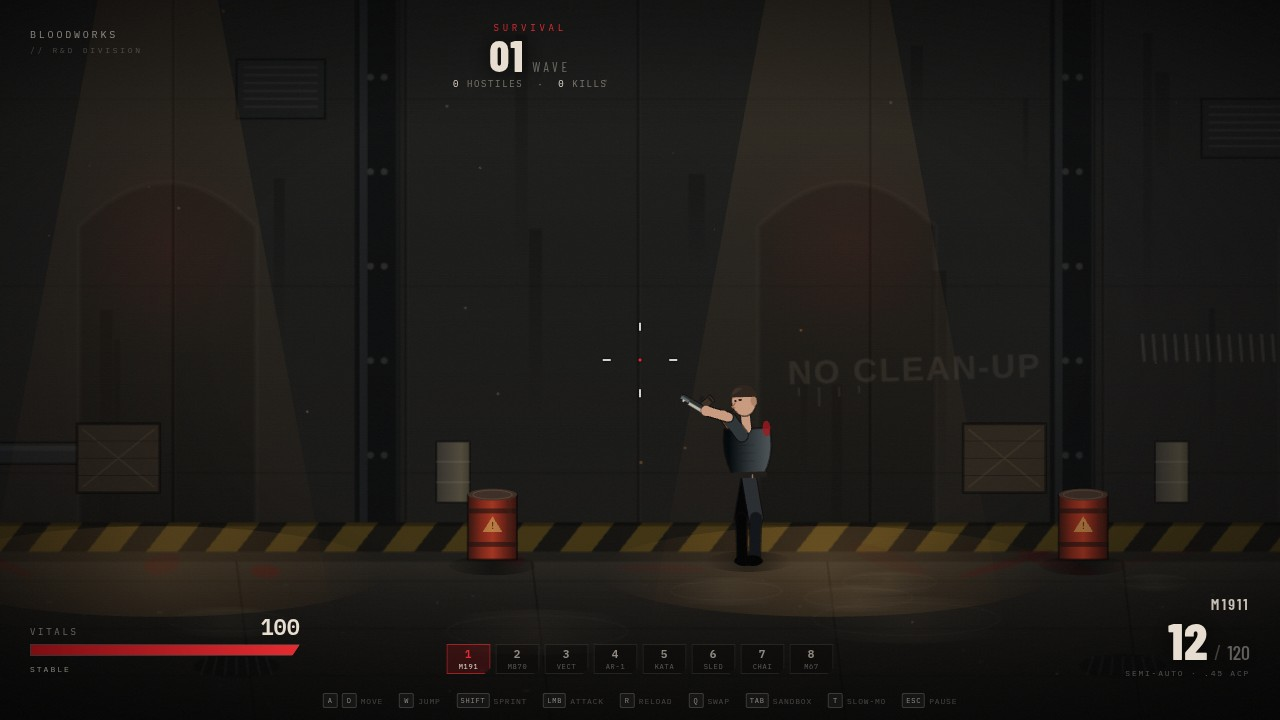
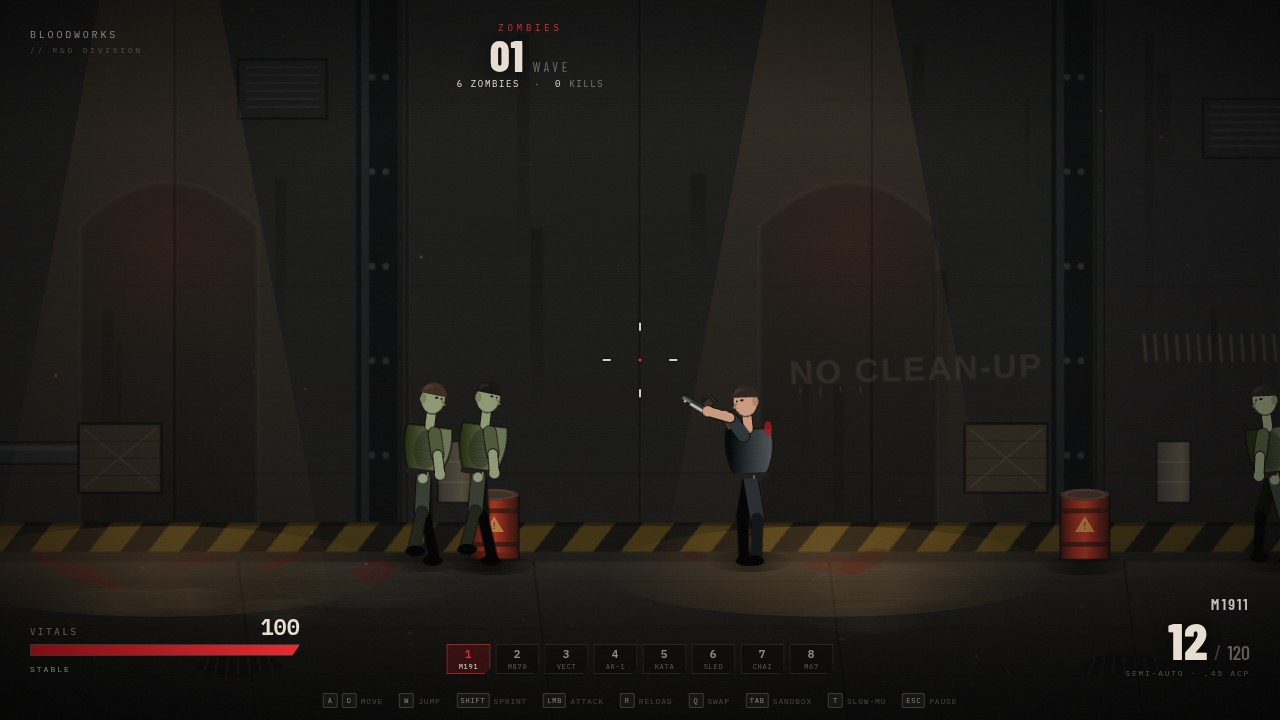
Publish static build for issue #8
Run: 42526923761
Attempt: 1
Generation: 5
Source: db1a5d6055c4b73f54363c94857f348db72bac48

diff --git a/js/game.js b/js/game.js
@@ -9,6 +9,13 @@ import { Ragdoll } from './ragdoll.js';
 import { Arsenal, WEAPONS } from './weapons.js';
 
 const clampX = x => clamp(x, 70, WORLD_W - 70);
+const CAMPAIGN_WAVES = [
+  ['thug', 'thug', 'thug', 'thug'],
+  ['thug', 'gunner', 'thug', 'gunner', 'thug', 'thug'],
+  ['thug', 'gunner', 'brute', 'thug', 'gunner', 'brute', 'gunner'],
+  ['gunner', 'thug', 'brute', 'gunner', 'thug', 'brute', 'gunner', 'thug', 'gunner'],
+  ['brute', 'gunner', 'thug', 'brute', 'gunner', 'thug', 'gunner', 'brute', 'gunner', 'thug', 'brute'],
+];
 
 export class Game {
   constructor() {
@@ -87,6 +94,7 @@ export class Game {
     this.barrels = this.makeBarrels();
     this.wave = 1; this.kills = 0; this.limbs = 0;
     this.waveClock = 0; this.betweenWaves = false; this.waveCooldown = 0;
+    this.campaignComplete = false;
     this.bloodRain = 0; this.slowmo = false; this.timeScale = 1; this.hitstop = 0;
     this.deathTimer = 0; this.slowTimer = 0; this.damageTimer = 0;
     this.arsenal.reset();
@@ -158,10 +166,12 @@ export class Game {
     document.getElementById('menu').classList.add('hidden');
     document.getElementById('pause').classList.add('hidden');
     document.getElementById('death').classList.add('hidden');
+    document.getElementById('victory').classList.add('hidden');
     this.closePanel();
     this.hud.show(true);
     this.hud.setMode(mode);
     this.state = 'playing';
+    this.campaignComplete = false;
     this.paused = false;
     const p = new Actor({
       x: 820, type: 'player', gore: this.gore, audio: this.audio,
@@ -193,6 +203,7 @@ export class Game {
     this.closePanel();
     document.getElementById('pause').classList.add('hidden');
     document.getElementById('death').classList.add('hidden');
+    document.getElementById('victory').classList.add('hidden');
     document.getElementById('menu').classList.remove('hidden');
     this.hud.show(false);
     this.buildMenuScene();
@@ -228,6 +239,8 @@ export class Game {
   bindUI() {
     const $ = id => document.getElementById(id);
     $('startBtn').addEventListener('click', () => this.startGame('survive'));
+    $('campaignBtn').addEventListener('click', () => this.startGame('campaign'));
+    $('zombiesBtn').addEventListener('click', () => this.startGame('zombies'));
     $('sandboxBtn').addEventListener('click', () => this.startGame('sandbox'));
     $('resumeBtn').addEventListener('click', () => this.resume());
     $('restartBtn').addEventListener('click', () => this.startGame(this.mode));
@@ -235,6 +248,8 @@ export class Game {
     $('retryBtn').addEventListener('click', () => this.startGame(this.mode));
     $('deathSandboxBtn').addEventListener('click', () => this.startGame('sandbox'));
     $('deathMenuBtn').addEventListener('click', () => this.toMenu());
+    $('victoryRetryBtn').addEventListener('click', () => this.startGame('campaign'));
+    $('victoryMenuBtn').addEventListener('click', () => this.toMenu());
     $('panelClose').addEventListener('click', () => this.closePanel());
     document.querySelectorAll('#sandboxPanel [data-action]').forEach(btn => {
       btn.addEventListener('click', () => this.sandboxAction(btn.dataset.action));
@@ -588,7 +603,7 @@ export class Game {
       }
     }
 
-    if (this.mode === 'survive') this.updateWaves(dt);
+    if (this.state === 'playing' && ['survive', 'campaign', 'zombies'].includes(this.mode)) this.updateWaves(dt);
     this.fx.update(raw, p ? clamp(p.hp / p.maxHp, 0, 1) : 1);
 
     if (this.deathTimer > 0) {
@@ -986,10 +1001,12 @@ export class Game {
   spawnEnemy(type = 'thug', x = null) {
     const p = this.player;
     const cfg = {
-      thug: { hp: 92, weapon: WEAPONS[4], speed: 155, w: 'MACHETE' },
-      gunner: { hp: 88, weapon: this.wave > 4 && chance(0.5) ? WEAPONS[2] : WEAPONS[0], speed: 118, w: 'CARBINE' },
-      brute: { hp: 235, weapon: WEAPONS[5], speed: 88, w: 'SLEDGE' },
+      thug: { hp: 92, weapon: WEAPONS[4], speed: 155 },
+      gunner: { hp: 88, weapon: this.wave > 4 && chance(0.5) ? WEAPONS[2] : WEAPONS[0], speed: 118 },
+      brute: { hp: 235, weapon: WEAPONS[5], speed: 88 },
+      zombie: { hp: 105, weapon: null, speed: 108 },
     }[type] || { hp: 90, weapon: WEAPONS[4], speed: 150 };
+    const scalesWithWave = this.mode === 'survive' || this.mode === 'zombies';
     let sx = x;
     if (sx === null) {
       const left = p ? p.x - (this.viewW * 0.62 + rand(140, 20)) : rand(200, 100);
@@ -1000,9 +1017,13 @@ export class Game {
     }
     const a = new Actor({
       x: clampX(sx), type: 'enemy', enemyType: type, gore: this.gore, audio: this.audio,
-      worldW: WORLD_W, groundY: GROUND, hp: cfg.hp + (this.mode === 'survive' ? this.wave * 6 : 0),
+      worldW: WORLD_W, groundY: GROUND, hp: cfg.hp + (scalesWithWave ? this.wave * (type === 'zombie' ? 3 : 6) : 0),
       weapon: cfg.weapon, aim: p ? Math.atan2((p.y - 118) - (GROUND - 130), p.x - sx) : 0,
-      shirt: type === 'brute' ? '#3b3128' : undefined,
+      shirt: type === 'brute' ? '#3b3128' : type === 'zombie' ? '#4d5737' : undefined,
+      pants: type === 'zombie' ? '#30362c' : undefined,
+      skin: type === 'zombie' ? '#8d9874' : undefined,
+      helmet: type === 'zombie' ? false : undefined,
+      mask: type === 'zombie' ? false : undefined,
     });
     a.onDeath = (act, info) => this.onActorDeath(act, info);
     a.speed = cfg.speed;
@@ -1032,6 +1053,7 @@ export class Game {
     let desired, speed;
     if (a.enemyType === 'gunner') { desired = 340; speed = a.speed; }
     else if (a.enemyType === 'brute') { desired = 72; speed = a.speed; }
+    else if (a.enemyType === 'zombie') { desired = 42; speed = a.speed; }
     else { desired = 58; speed = a.speed; }
     let moveDir = 0;
     if (adx > desired + 45) moveDir = dx > 0 ? 1 : -1;
@@ -1052,11 +1074,14 @@ export class Game {
 
     // melee animation
     if (a.meleeProgress >= 0) {
-      a.meleeProgress += dt / (a.enemyType === 'brute' ? 0.46 : 0.3);
+      const swingDuration = a.enemyType === 'brute' ? 0.46 : a.enemyType === 'zombie' ? 0.42 : 0.3;
+      a.meleeProgress += dt / swingDuration;
       if (a.meleeProgress > 0.52 && !a.swingHit) {
         a.swingHit = true;
-        if (adx < (a.enemyType === 'brute' ? 105 : 86) && Math.abs(p.y - a.y) < 90) {
-          this.hurtPlayer(a.enemyType === 'brute' ? 26 : 13, p.x, p.y - 110, a.aim);
+        const hitReach = a.enemyType === 'brute' ? 105 : a.enemyType === 'zombie' ? 82 : 86;
+        if (adx < hitReach && Math.abs(p.y - a.y) < 90) {
+          const damage = a.enemyType === 'brute' ? 26 : a.enemyType === 'zombie' ? 18 : 13;
+          this.hurtPlayer(damage, p.x, p.y - 110, a.aim);
           this.audio.flesh(true);
         } else {
           this.gore.dust(a.x + Math.cos(a.aim) * 60, a.y - 100, 2, 4);
@@ -1175,17 +1200,30 @@ export class Game {
     this.spawnQueue.length = 0;
     this.betweenWaves = false;
     this.waveCooldown = 0;
-    const count = Math.min(16, 3 + Math.floor(n * 1.85));
+
+    let composition;
+    if (this.mode === 'campaign') {
+      composition = CAMPAIGN_WAVES[n - 1] || [];
+    } else if (this.mode === 'zombies') {
+      const count = Math.min(24, 5 + Math.floor(n * 1.6));
+      composition = Array(count).fill('zombie');
+    } else {
+      const count = Math.min(16, 3 + Math.floor(n * 1.85));
+      composition = Array.from({ length: count }, () => {
+        const r = Math.random();
+        if (n >= 3 && r < 0.18) return 'brute';
+        return r < 0.55 ? 'gunner' : 'thug';
+      });
+    }
+
     let at = 0.2;
-    for (let i = 0; i < count; i++) {
-      at += rand(1.15, 0.35);
-      let type = 'thug';
-      const r = Math.random();
-      if (n >= 3 && r < 0.18) type = 'brute';
-      else if (r < 0.55) type = 'gunner';
+    for (const type of composition) {
+      at += rand(this.mode === 'zombies' ? 0.9 : 1.15, 0.35);
       this.spawnQueue.push({ at, type, side: chance(0.5) ? 'left' : 'right' });
     }
-    this.hud.banner(`WAVE ${String(n).padStart(2, '0')}`, `${count} HOSTILES INBOUND`, 'danger');
+    const title = this.mode === 'zombies' ? `NIGHT ${String(n).padStart(2, '0')}` : `WAVE ${String(n).padStart(2, '0')}`;
+    const target = this.mode === 'zombies' ? 'ZOMBIES' : 'HOSTILES';
+    this.hud.banner(title, `${composition.length} ${target} INBOUND`, 'danger');
     this.audio.waveStart();
     this.audio.setMuted(this.audio.muted);
   }
@@ -1208,16 +1246,36 @@ export class Game {
     if (alive === 0 && this.spawnQueue.length === 0) {
       if (!this.betweenWaves) {
         this.betweenWaves = true;
-        this.waveCooldown = 5;
-        this.hud.banner('AREA CLEAR', 'REGROUP · ' + (this.wave + 1) + ' INBOUND');
+        const finalCampaignWave = this.mode === 'campaign' && this.wave >= CAMPAIGN_WAVES.length;
+        this.waveCooldown = finalCampaignWave ? 3 : 5;
+        this.hud.banner(
+          finalCampaignWave ? 'FINAL AREA CLEAR' : 'AREA CLEAR',
+          finalCampaignWave ? 'EXTRACTION IN PROGRESS' : 'REGROUP · ' + (this.wave + 1) + ' INBOUND',
+        );
         this.audio.waveStart();
         this.arsenal.addAmmo(1);
         this.saveBest();
       } else {
         this.waveCooldown -= dt;
-        if (this.waveCooldown <= 0) this.startWave(this.wave + 1);
+        if (this.waveCooldown <= 0) {
+          if (this.mode === 'campaign' && this.wave >= CAMPAIGN_WAVES.length) this.completeCampaign();
+          else this.startWave(this.wave + 1);
+        }
       }
     }
+  }
+
+  completeCampaign() {
+    if (this.campaignComplete) return;
+    this.campaignComplete = true;
+    this.state = 'complete';
+    this.paused = true;
+    this.saveBest();
+    document.getElementById('victoryKills').textContent = String(this.kills);
+    document.getElementById('victoryLimbs').textContent = String(this.limbs);
+    document.getElementById('victory').classList.remove('hidden');
+    this.hud.show(false);
+    this.audio.waveStart();
   }
 
   aliveEnemyCount() {

diff --git a/index.html b/index.html
@@ -23,7 +23,7 @@
       <div id="waveHud">
         <div class="wave-label" id="modeLabel">SURVIVAL</div>
         <div class="wave-value"><span id="waveNum">01</span><i>WAVE</i></div>
-        <div class="wave-sub"><span id="enemyCount">0</span> HOSTILES &nbsp;·&nbsp; <span id="killNum">0</span> KILLS</div>
+        <div class="wave-sub"><span id="enemyCount">0</span> <span id="enemyLabel">HOSTILES</span> &nbsp;·&nbsp; <span id="killNum">0</span> KILLS</div>
       </div>
       <div id="killFeed"></div>
     </div>
@@ -87,8 +87,10 @@
       <div class="tagline">GORE SANDBOX <span>/</span> VOL. I</div>
       <p class="blurb">Ragdolls. Dismemberment. Ballistics. <br/>No gods, no clean-up crew.</p>
       <div class="menu-actions">
-        <button id="startBtn" class="btn primary" aria-label="Start">PLAY</button>
-        <button id="sandboxBtn" class="btn ghost">SANDBOX MODE</button>
+        <button id="startBtn" class="btn primary" aria-label="Start survival">SURVIVAL</button>
+        <button id="campaignBtn" class="btn ghost">CAMPAIGN</button>
+        <button id="zombiesBtn" class="btn ghost">ZOMBIES</button>
+        <button id="sandboxBtn" class="btn ghost">SANDBOX</button>
       </div>
       <div class="menu-meta">
         <div><span>BEST WAVE</span><b id="bestWave">—</b></div>
@@ -137,6 +139,22 @@
         <button id="retryBtn" class="btn primary">RETRY</button>
         <button id="deathSandboxBtn" class="btn ghost">SANDBOX</button>
         <button id="deathMenuBtn" class="btn ghost">MAIN MENU</button>
+      </div>
+    </div>
+  </div>
+
+  <div id="victory" class="screen hidden">
+    <div class="modal victory-modal">
+      <div class="eyebrow">OPERATION COMPLETE · ALL HOSTILES NEUTRALIZED</div>
+      <h2>YOU SURVIVED</h2>
+      <div class="death-stats">
+        <div><span>WAVES</span><b>05 / 05</b></div>
+        <div><span>KILLS</span><b id="victoryKills">0</b></div>
+        <div><span>LIMBS</span><b id="victoryLimbs">0</b></div>
+      </div>
+      <div class="modal-actions">
+        <button id="victoryRetryBtn" class="btn primary">PLAY AGAIN</button>
+        <button id="victoryMenuBtn" class="btn ghost">MAIN MENU</button>
       </div>
     </div>
   </div>

diff --git a/js/hud.js b/js/hud.js
@@ -22,6 +22,7 @@ export class HUD {
     this.waveNum = $('waveNum');
     this.modeLabel = $('modeLabel');
     this.enemyCount = $('enemyCount');
+    this.enemyLabel = $('enemyLabel');
     this.killNum = $('killNum');
     this.statusTxt = $('statusTxt');
     this.slowmoDot = $('slowmoDot');
@@ -52,7 +53,14 @@ export class HUD {
   }
 
   setMode(mode) {
-    this.modeLabel.textContent = mode === 'sandbox' ? 'FREE PLAY' : 'SURVIVAL';
+    const labels = {
+      survive: 'SURVIVAL',
+      campaign: 'CAMPAIGN',
+      zombies: 'ZOMBIES',
+      sandbox: 'FREE PLAY',
+    };
+    this.modeLabel.textContent = labels[mode] || 'SURVIVAL';
+    this.enemyLabel.textContent = mode === 'zombies' ? 'ZOMBIES' : 'HOSTILES';
   }
 
   banner(text, sub = '', cls = '') {
@@ -132,7 +140,11 @@ export class HUD {
       this.reloadArc.style.strokeDashoffset = String(94.2 * (1 - pct));
     }
 
-    this.waveNum.textContent = g.mode === 'sandbox' ? '∞' : String(g.wave).padStart(2, '0');
+    this.waveNum.textContent = g.mode === 'sandbox'
+      ? '∞'
+      : g.mode === 'campaign'
+        ? `${String(g.wave).padStart(2, '0')}/${String(5).padStart(2, '0')}`
+        : String(g.wave).padStart(2, '0');
     this.enemyCount.textContent = g.aliveEnemyCount();
     this.killNum.textContent = g.kills;
 

diff --git a/styles.css b/styles.css
@@ -273,6 +273,8 @@ kbd {
 .modal-note { font-family: var(--font-mono); font-size: 8px; letter-spacing: .16em; color: rgba(231,222,209,.28); margin-top: 20px; }
 .death-modal { border-top-color: var(--blood-bright); }
 .death-modal h2 { color: var(--blood-bright); text-shadow: 0 0 60px rgba(229,43,49,.35); }
+.victory-modal { border-top-color: #b6c66a; }
+.victory-modal h2 { color: #b6c66a; text-shadow: 0 0 60px rgba(182,198,106,.25); }
 .death-stats { display: flex; gap: 32px; margin-top: 22px; font-family: var(--font-mono); }
 .death-stats div { display: flex; flex-direction: column; gap: 3px; }
 .death-stats span { font-size: 8px; letter-spacing: .22em; color: rgba(231,222,209,.3); }
